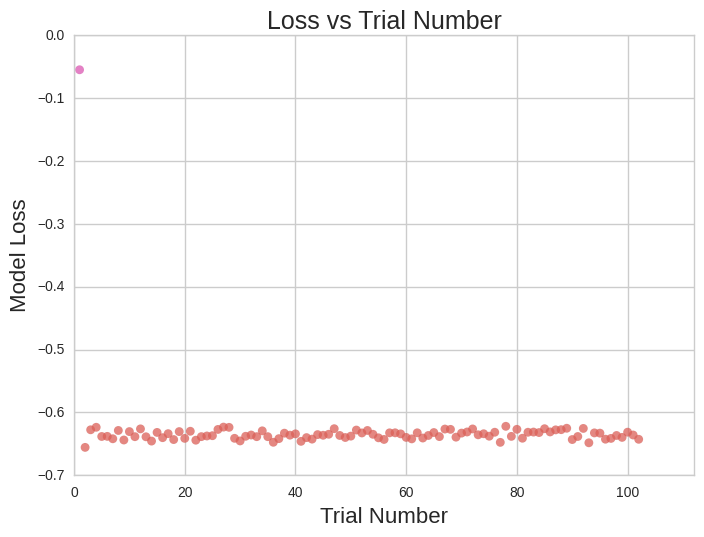
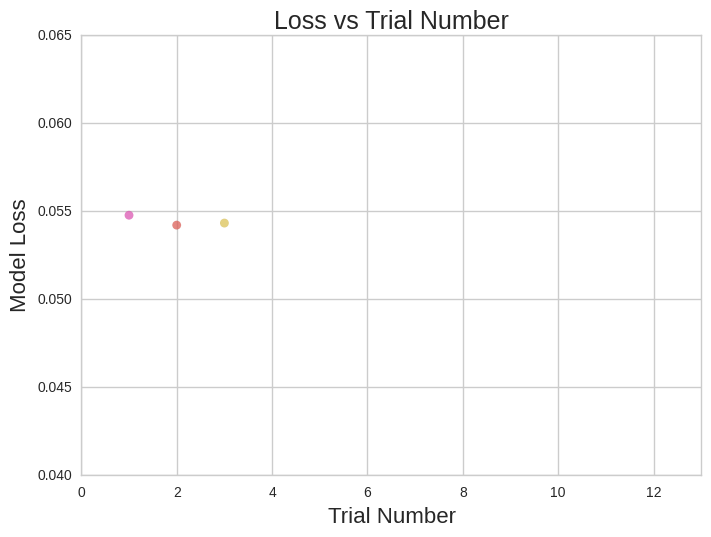
Fix

diff --git a/Machine_Learning/Rossmann_Store_Sales/coursework_script3.py b/Machine_Learning/Rossmann_Store_Sales/coursework_script3.py
@@ -9,8 +9,6 @@
 # Bayes Optimisaion Module: https://goo.gl/Miyb4B
 # Scoring Parameter: http://goo.gl/khqrqO
 # Scoring: http://arxiv.org/pdf/1209.5111v1.pdf
-# Feature Importance Plot -
-# http://scikit-learn.org/stable/auto_examples/ensemble/plot_forest_importances.html
 
 import pandas as pd
 import numpy as np
@@ -234,7 +232,7 @@ def plot_data(parameters, results, name):
         axes[i].set_title(val)
         # axes[i].set_ylim([0.8,1])
     plt.savefig(name + '_Paramenters.png', bbox_inches='tight')
-    plt.show()
+    plt.close()
     # Second Plot
     print('Plotting the Trial number by Cost Function')
     f, ax = plt.subplots(1)
@@ -249,7 +247,7 @@ def plot_data(parameters, results, name):
     ax.set_xlabel('Trial Number', fontsize=16)
     ax.set_ylabel('Model Loss', fontsize=16)
     plt.savefig(name + '_Trial.png', bbox_inches='tight')
-    plt.show()
+    plt.close()
 
 
 def fit_predict(X, y, X_test, params, model):
@@ -401,9 +399,9 @@ ML2_BO.explore({'max_depth': [200],
                 'scaleV': [0],
                 'log_y': [1]})
 # Optimisation of Machine Learning Algorithm #1 = RandomForestRegressor
-ML1_BO.maximize(init_points=300, n_iter=1)
+ML1_BO.maximize(init_points=1, n_iter=1)
 # Optimisation of Machine Learning Algorithm #2 = DecisionTreeRegressor
-ML2_BO.maximize(init_points=300, n_iter=1)
+ML2_BO.maximize(init_points=1, n_iter=1)
 # Feature Engineering - Post - Recommendations
 # Investigate - Feature Importance
 # Evaluate Models - Graphical and Tabular Results - Plot Trial Data
